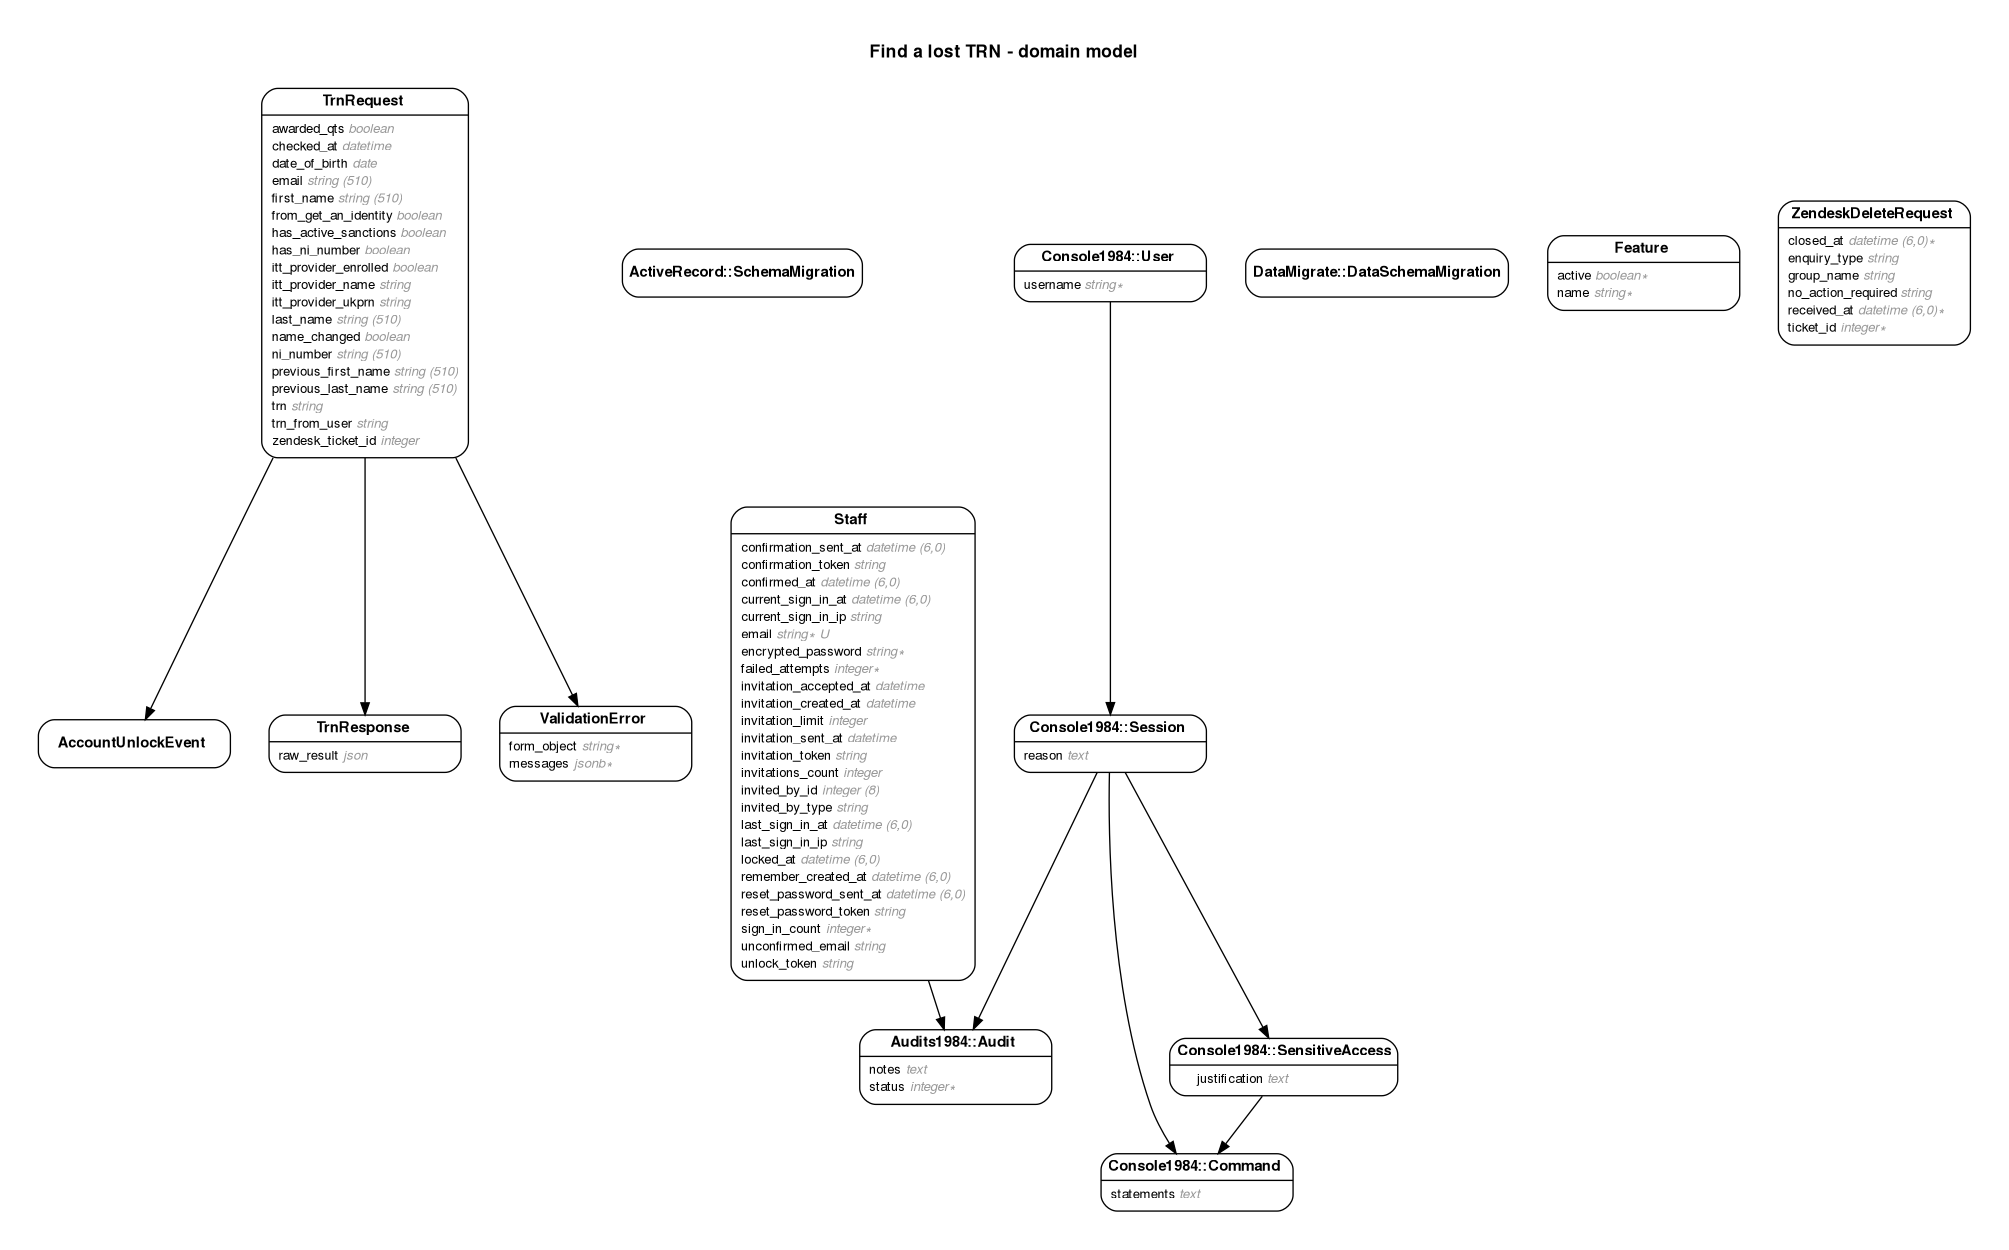
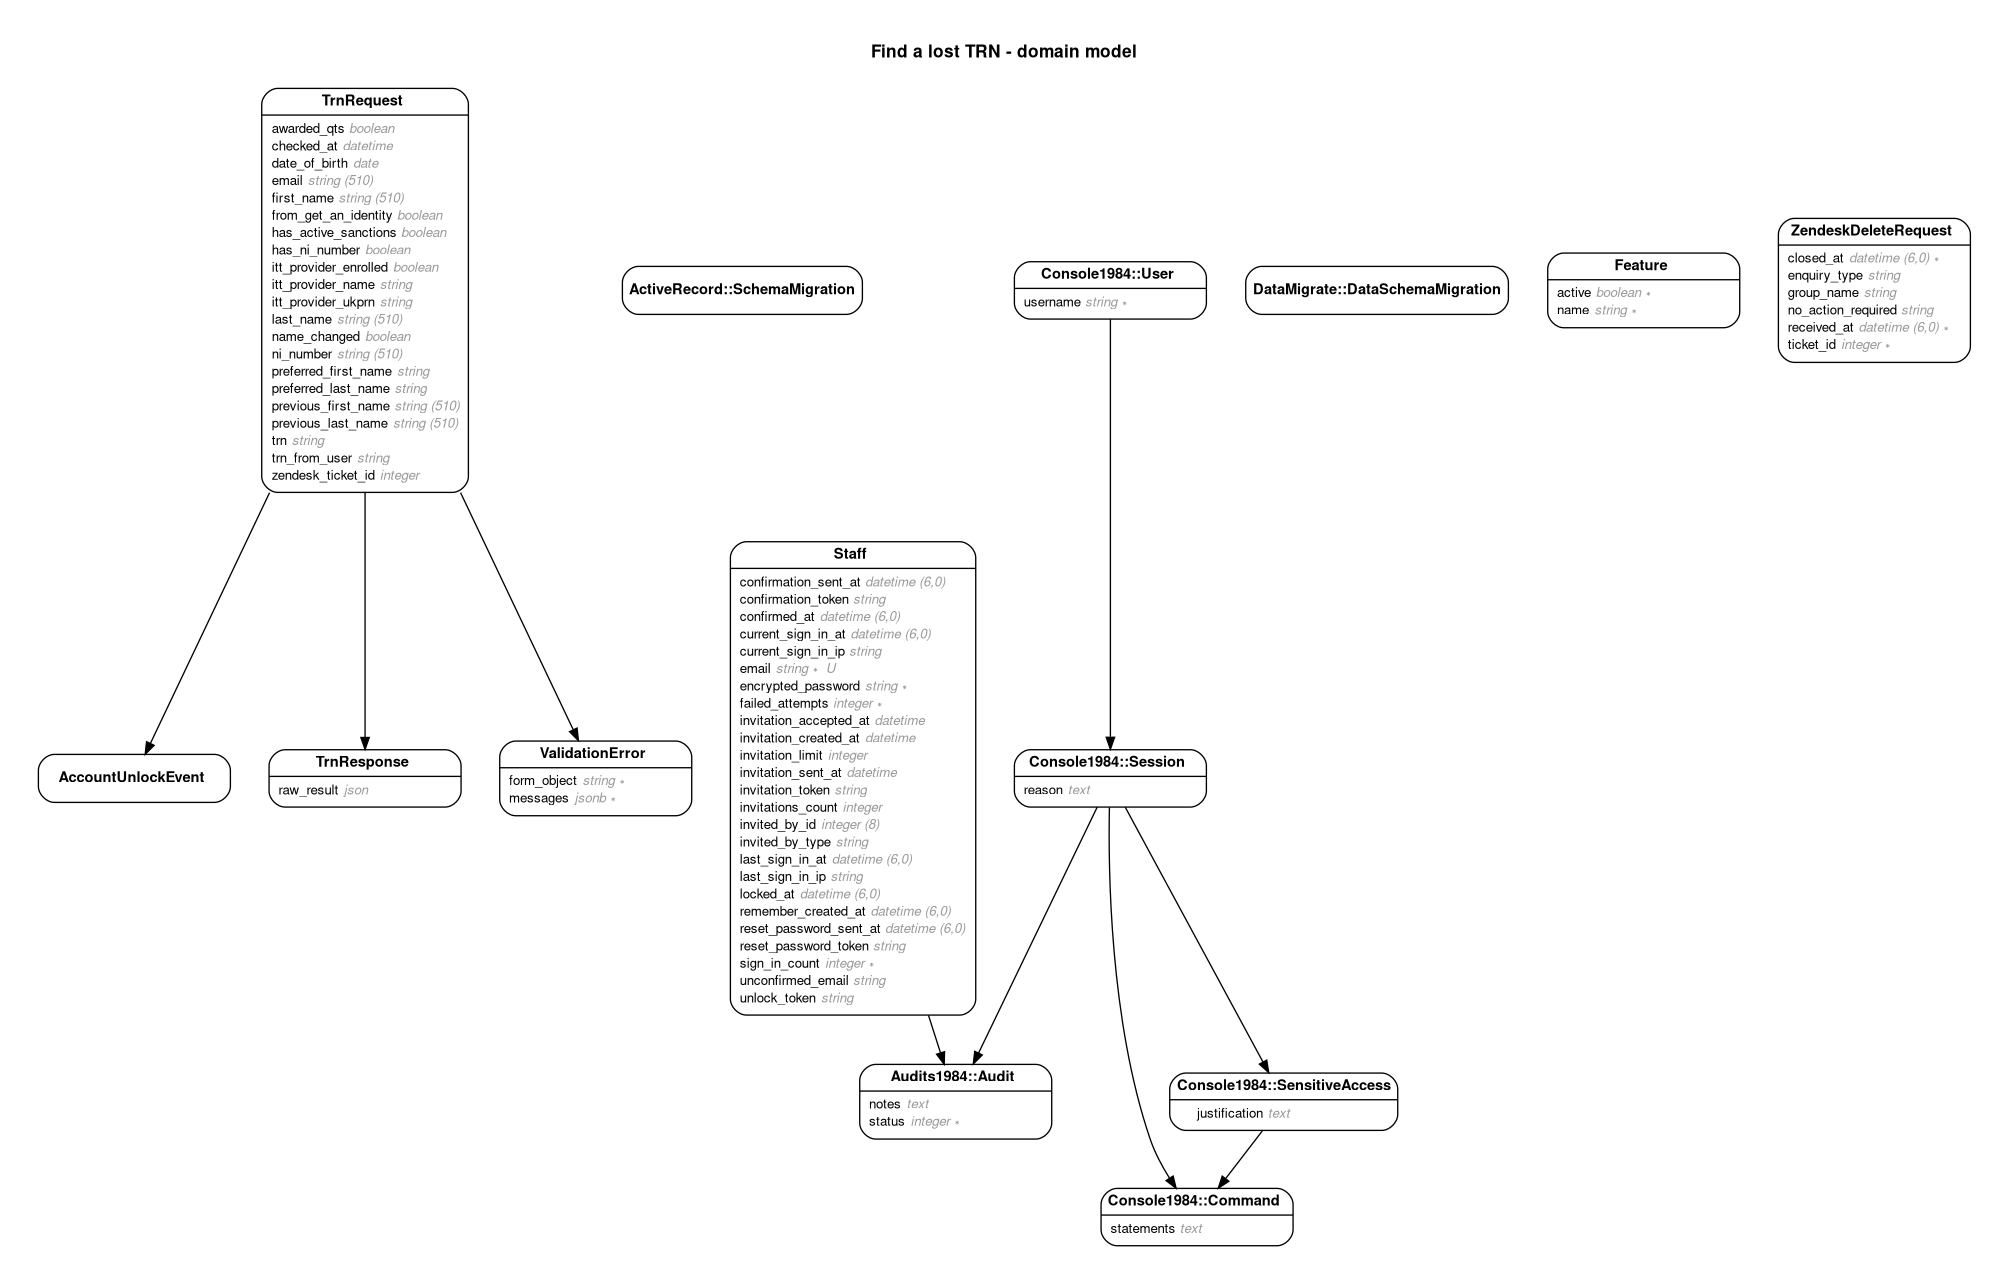
Add database fields to TrnRequest for preferred name

diff --git a/db/schema.rb b/db/schema.rb
@@ -10,7 +10,7 @@
 #
 # It's strongly recommended that you check this file into your version control system.
 
-ActiveRecord::Schema[7.0].define(version: 2022_10_11_085154) do
+ActiveRecord::Schema[7.0].define(version: 2022_10_13_135211) do
   # These are extensions that must be enabled in order to support this database
   enable_extension "plpgsql"
 
@@ -136,6 +136,8 @@ ActiveRecord::Schema[7.0].define(version: 2022_10_11_085154) do
     t.boolean "from_get_an_identity", default: false
     t.string "trn_from_user"
     t.string "itt_provider_ukprn"
+    t.string "preferred_first_name"
+    t.string "preferred_last_name"
   end
 
   create_table "trn_responses", force: :cascade do |t|

diff --git a/app/models/trn_request.rb b/app/models/trn_request.rb
@@ -19,6 +19,8 @@
 #  last_name             :string(510)
 #  name_changed          :boolean
 #  ni_number             :string(510)
+#  preferred_first_name  :string
+#  preferred_last_name   :string
 #  previous_first_name   :string(510)
 #  previous_last_name    :string(510)
 #  trn                   :string

diff --git a/spec/models/trn_request_spec.rb b/spec/models/trn_request_spec.rb
@@ -19,6 +19,8 @@
 #  last_name             :string(510)
 #  name_changed          :boolean
 #  ni_number             :string(510)
+#  preferred_first_name  :string
+#  preferred_last_name   :string
 #  previous_first_name   :string(510)
 #  previous_last_name    :string(510)
 #  trn                   :string

diff --git a/db/migrate/20221013135211_add_preferred_names_to_trn_request.rb b/db/migrate/20221013135211_add_preferred_names_to_trn_request.rb
@@ -1,0 +1,6 @@
+class AddPreferredNamesToTrnRequest < ActiveRecord::Migration[7.0]
+  def change
+    add_column :trn_requests, :preferred_first_name, :string
+    add_column :trn_requests, :preferred_last_name, :string
+  end
+end
